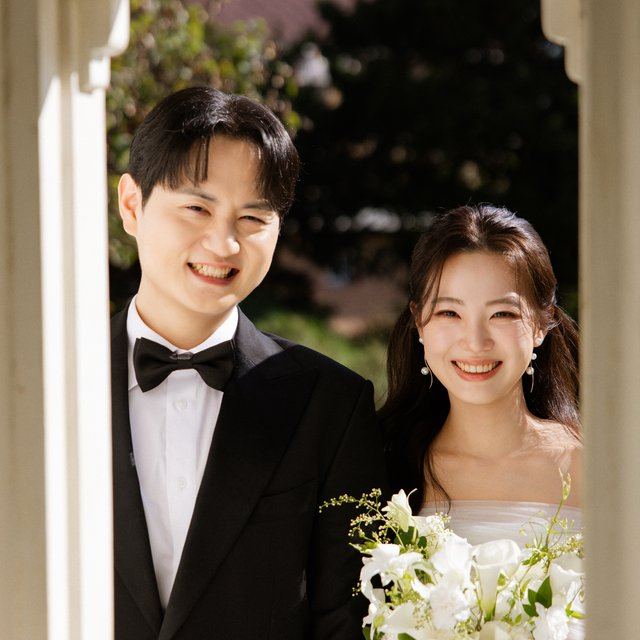
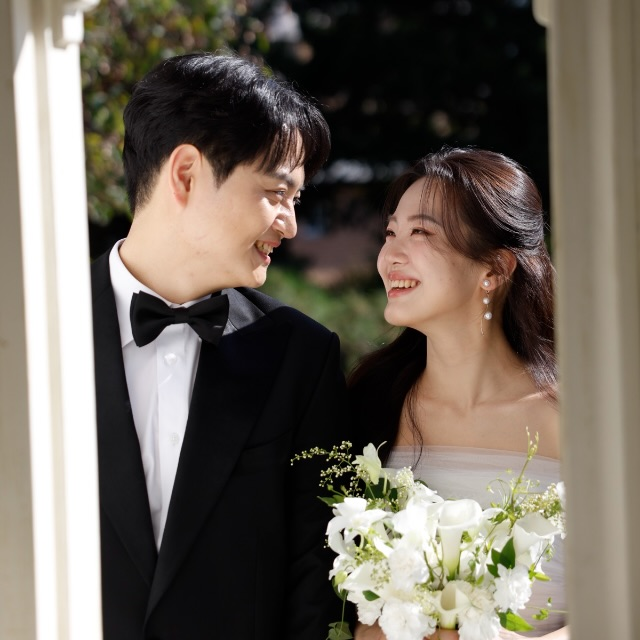
갤러리: 창틀 액자 사진 두 장 나란히 (#34)
* Fix feed hearts/comments vanishing on reload (Sheets turns "01" into 1)

Claude-Session: https://claude.ai/code/session_01WVhcsR6941YX6S7jcLCBTT

* Gallery: show 15 more photos per '더 보기' tap

Claude-Session: https://claude.ai/code/session_01WVhcsR6941YX6S7jcLCBTT

* Add bride's mother's account (Shinhan)

Claude-Session: https://claude.ai/code/session_01WVhcsR6941YX6S7jcLCBTT

* Switch background music to 'Buantez du jour'

Claude-Session: https://claude.ai/code/session_01WVhcsR6941YX6S7jcLCBTT

* Use real app icons for Naver Map, KakaoMap and TMAP buttons

Claude-Session: https://claude.ai/code/session_01WVhcsR6941YX6S7jcLCBTT

* Copy account as '은행 숫자만 이름'

Claude-Session: https://claude.ai/code/session_01WVhcsR6941YX6S7jcLCBTT

* Android: let guests pick phone calendar (.ics) or Google Calendar

Chrome and in-app browsers block the calendar INSERT intent, so the old
button always fell through to Google Calendar's web page.

Claude-Session: https://claude.ai/code/session_01WVhcsR6941YX6S7jcLCBTT

* Calendar chooser on iPhone/PC too; bump asset cache version

Claude-Session: https://claude.ai/code/session_01WVhcsR6941YX6S7jcLCBTT

* Add Kakao map (약도) to the directions card

Claude-Session: https://claude.ai/code/session_01WVhcsR6941YX6S7jcLCBTT

* Restyle calendar chooser to match the invitation theme

Claude-Session: https://claude.ai/code/session_01WVhcsR6941YX6S7jcLCBTT

* Remove two 동작대교 photos (b12, b13) from the gallery
[…]

diff --git a/js/main.js b/js/main.js
@@ -161,14 +161,14 @@
 
   // ── 갤러리 + 라이트박스 ──
   var g = $("#gallery"), lb = $("#lightbox"), lbImg = lb.querySelector("img"), cur = 0;
-  // ?v=3: 사진 파일을 같은 이름으로 바꿔 넣었을 때 휴대폰에 남은 예전 사진 대신 새 사진을 받게 함 (사진을 교체하면 숫자 올리기)
-  var full = function (id) { return /\//.test(id) ? id : "images/gallery/full/" + id + ".jpg?v=3"; };
-  var thumb = function (id) { return /\//.test(id) ? id : "images/gallery/thumb/" + id + ".jpg?v=3"; };
+  // ?v=4: 사진 파일을 같은 이름으로 바꿔 넣었을 때 휴대폰에 남은 예전 사진 대신 새 사진을 받게 함 (사진을 교체하면 숫자 올리기)
+  var full = function (id) { return /\//.test(id) ? id : "images/gallery/full/" + id + ".jpg?v=4"; };
+  var thumb = function (id) { return /\//.test(id) ? id : "images/gallery/thumb/" + id + ".jpg?v=4"; };
   // 테마 목록 (예전처럼 번호 배열만 넣어도 동작)
   var themes = (W.gallery || []).length && typeof W.gallery[0] === "string"
     ? [{ emoji: "", name: "전체", photos: W.gallery }]
     : (W.gallery || []);
-  // 각 테마 안에서는 파일명 순서로 정렬 (01 … 11, 11a, 12 … 15, 15a, 16, 16a, b01 …, tw03 …). 숫자는 크기대로(2 < 10)
+  // 각 테마 안에서는 파일명 순서로 정렬 (01 … 11, 11a, 12 … 15, 15a, 16, 16a, 16b, b01 …, tw03 …). 숫자는 크기대로(2 < 10)
   // 특정 사진 바로 뒤에 넣고 싶으면 파일명 끝에 a, b 를 붙이면 됨 (예: 15a → 15 바로 다음)
   themes.forEach(function (t) {
     t.photos = t.photos.slice().sort(function (a, b) { return a.localeCompare(b, "en", { numeric: true }); });

diff --git a/js/config.js b/js/config.js
@@ -83,7 +83,7 @@ window.WEDDING = {
   // 테마를 추가·삭제하려면 이 목록만 고치면 됩니다. 각 테마 안의 사진은 파일명 순서로 자동 정렬됩니다.
   // '전체' 칩은 테마 순서대로 이어 붙여 보여 주고, 9장 넘으면 '더 보기' 버튼이 생김
   gallery: [
-    { emoji: "🤍", name: "키노스튜디오", photos: ["01", "02", "03", "04", "05", "06", "07", "09", "10", "11", "11a", "12", "13", "14", "15", "15a", "16", "16a", "b01", "b02", "b03", "b04"] },
+    { emoji: "🤍", name: "키노스튜디오", photos: ["01", "02", "03", "04", "05", "06", "07", "09", "10", "11", "11a", "12", "13", "14", "15", "15a", "16", "16a", "16b", "b01", "b02", "b04"] },
     { emoji: "🌿", name: "노을공원", photos: ["08", "17", "18", "19", "20", "21", "22", "23", "24", "25", "26", "27", "b05", "b06", "b07"] },
     { emoji: "🌙", name: "동작대교", photos: ["28", "29", "30", "31", "32", "33", "34", "35", "b09", "b10", "b11", "b14", "b15"] },
     { emoji: "🏮", name: "타이베이", photos: ["tw03", "tw04", "tw05", "tw06", "tw07", "tw08", "tw09", "tw10", "tw11", "tw12", "tw13", "tw14", "tw15", "tw16", "tw17"] },

diff --git a/index.html b/index.html
@@ -17,7 +17,7 @@
   <link rel="preconnect" href="https://fonts.googleapis.com" />
   <link rel="preconnect" href="https://fonts.gstatic.com" crossorigin />
   <link href="https://fonts.googleapis.com/css2?family=Cormorant+Garamond:ital,wght@0,400;0,600;1,400;1,600&family=Parisienne&display=swap" rel="stylesheet" />
-  <link rel="stylesheet" href="css/style.css?v=20261112zo" />
+  <link rel="stylesheet" href="css/style.css?v=20261112zp" />
 </head>
 <body>
 <main class="page">
@@ -285,7 +285,7 @@
 </div>
 <div class="toast" id="toast" role="status"></div>
 
-<script src="js/config.js?v=20261112zo"></script>
-<script src="js/main.js?v=20261112zo"></script>
+<script src="js/config.js?v=20261112zp"></script>
+<script src="js/main.js?v=20261112zp"></script>
 </body>
 </html>
